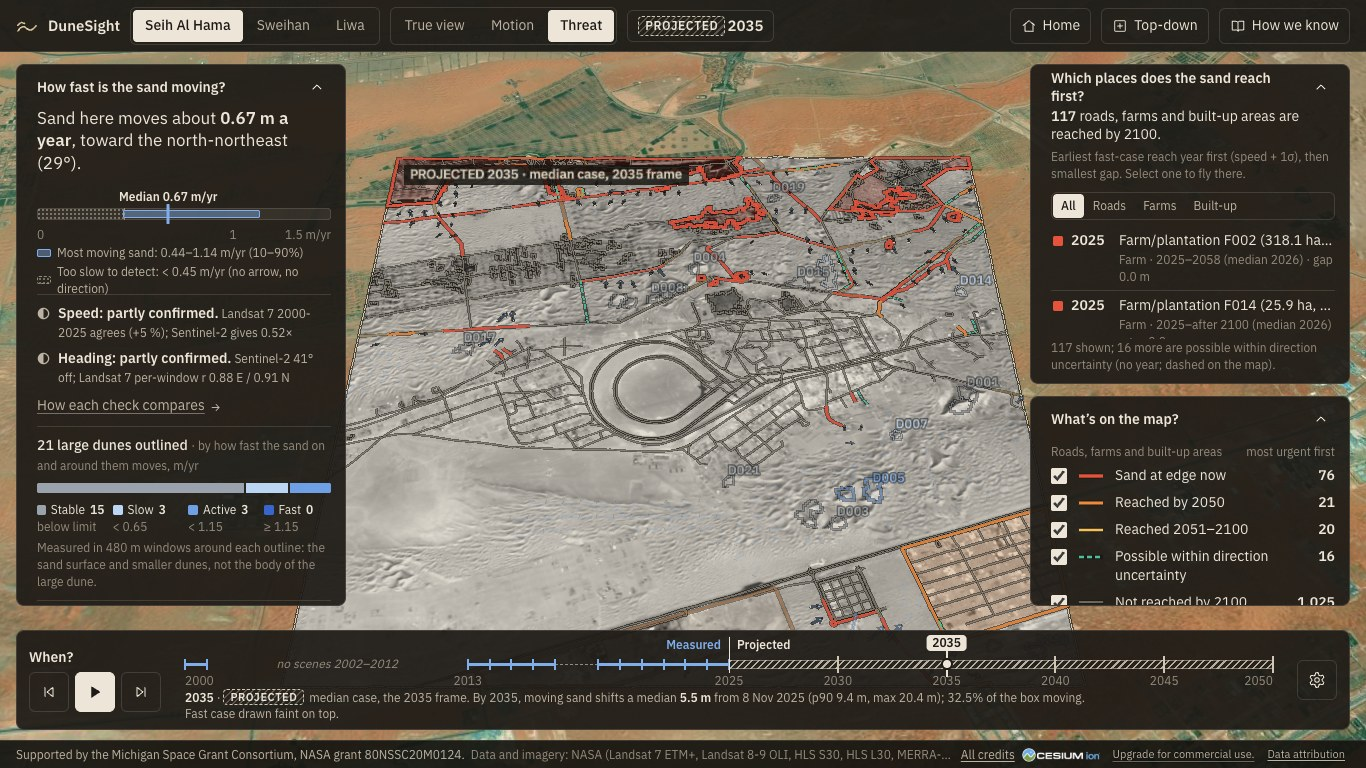
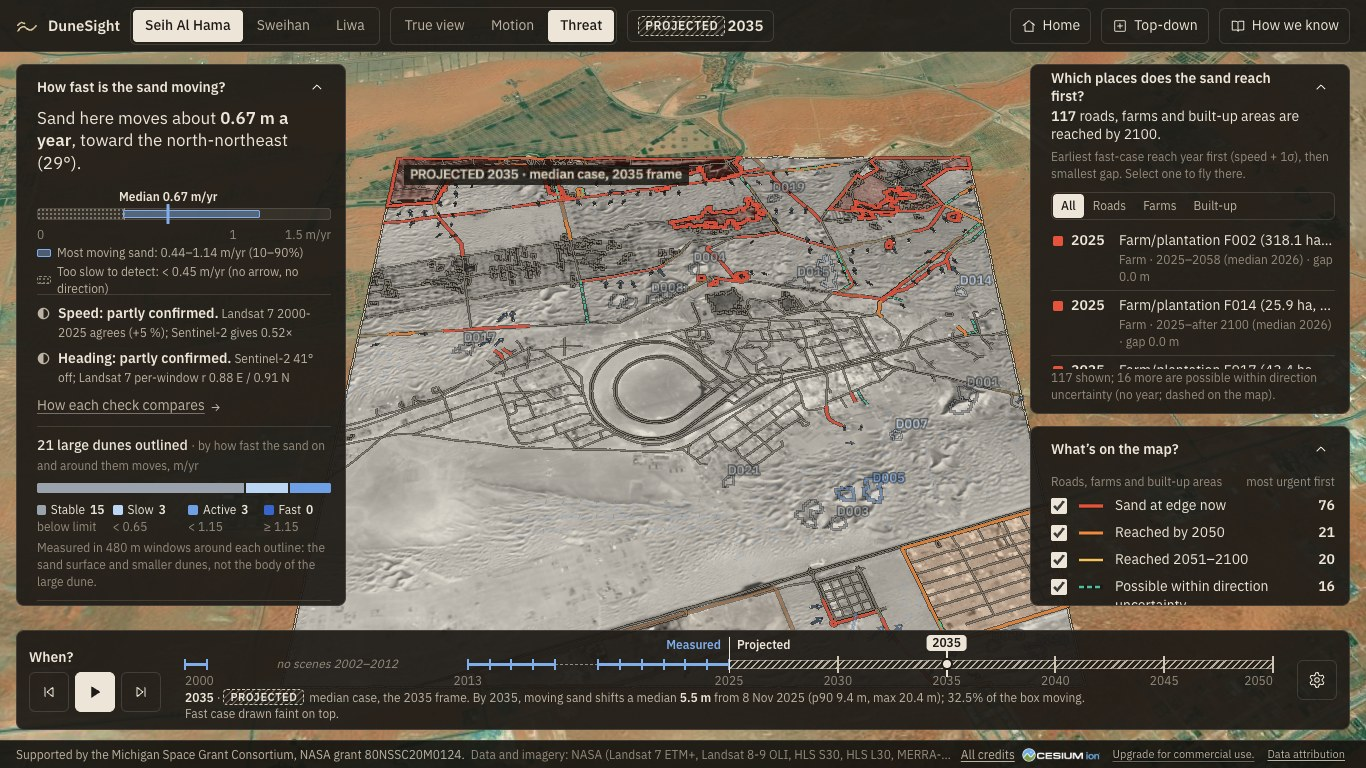
Reached list: a little more room at 1366x768 so two rows stay fully visible with a card open

Changed region(s): [[0.7379, 0.4375, 1.0, 0.8125]]

diff --git a/src/ui/ui.css b/src/ui/ui.css
@@ -370,7 +370,7 @@
 .ds-panel--reached > .ds-pbody { flex: 1 1 auto; min-height: 0; }
 .ds-panel--reached > .ds-pbody > div { display: flex; flex-direction: column; }
 .ds-panel--reached .ds-rlist { flex: 1 1 auto; min-height: 0; overflow-y: auto; scrollbar-width: thin; margin-right: -8px; padding-right: 8px; }
-@media (max-height: 899px) and (min-width: 761px) { .ds-panel--reached { flex-basis: 320px !important; min-height: 320px !important; } .ds-panel--reached .ds-lead { font-size: var(--ds-fs-body); } }
+@media (max-height: 899px) and (min-width: 761px) { .ds-panel--reached { flex-basis: 350px !important; min-height: 350px !important; } .ds-panel--reached .ds-lead { font-size: var(--ds-fs-body); } }
 @media (min-height: 900px) { .ds-panel--reached { flex-basis: 500px !important; min-height: 500px !important; } }
 .ds-ui[data-mode="threat"] .ds-right > .ds-panel--legend { flex: 1 12 auto; min-height: 180px; }
 .ds-panel--reached .ds-seg--small { margin: 10px 0 6px; }
